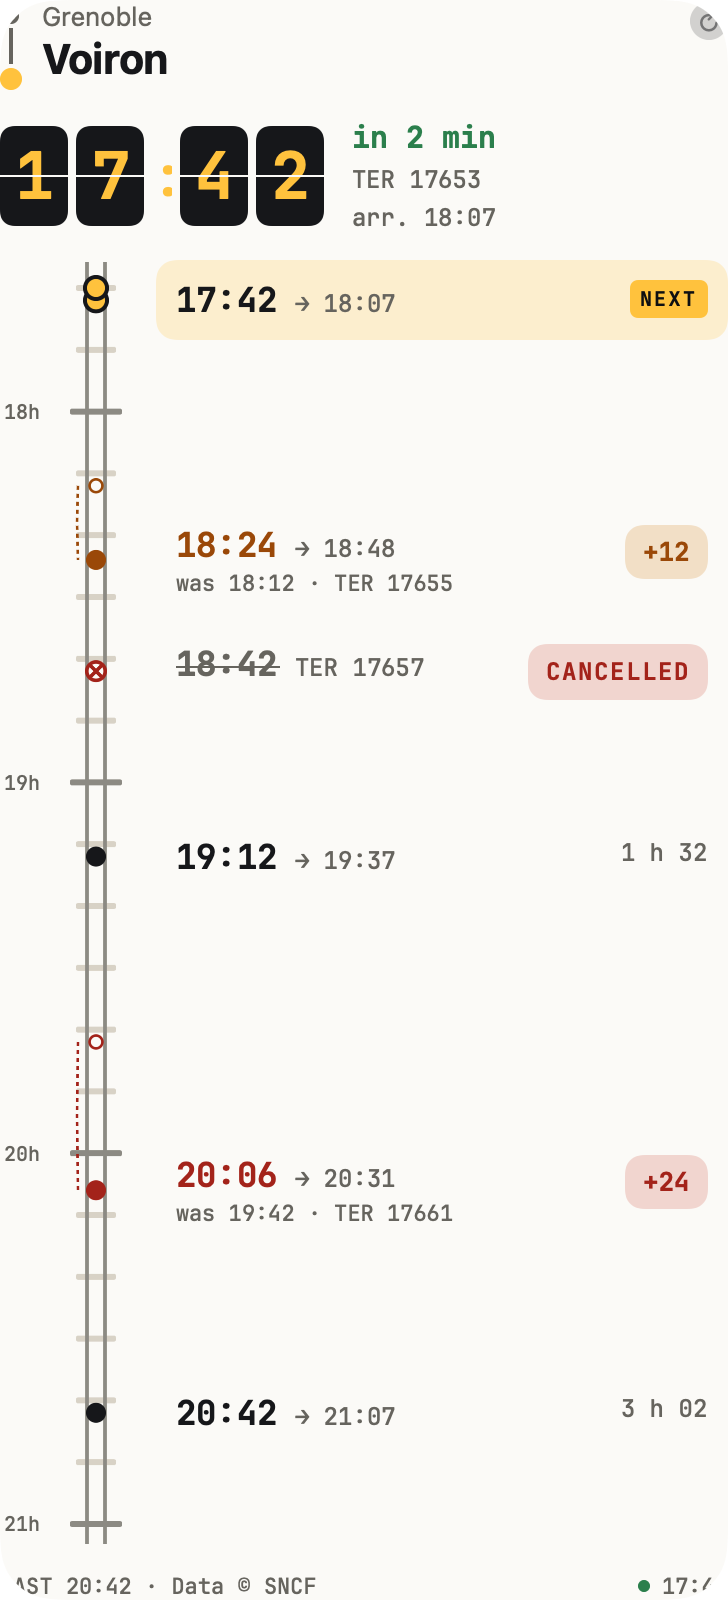
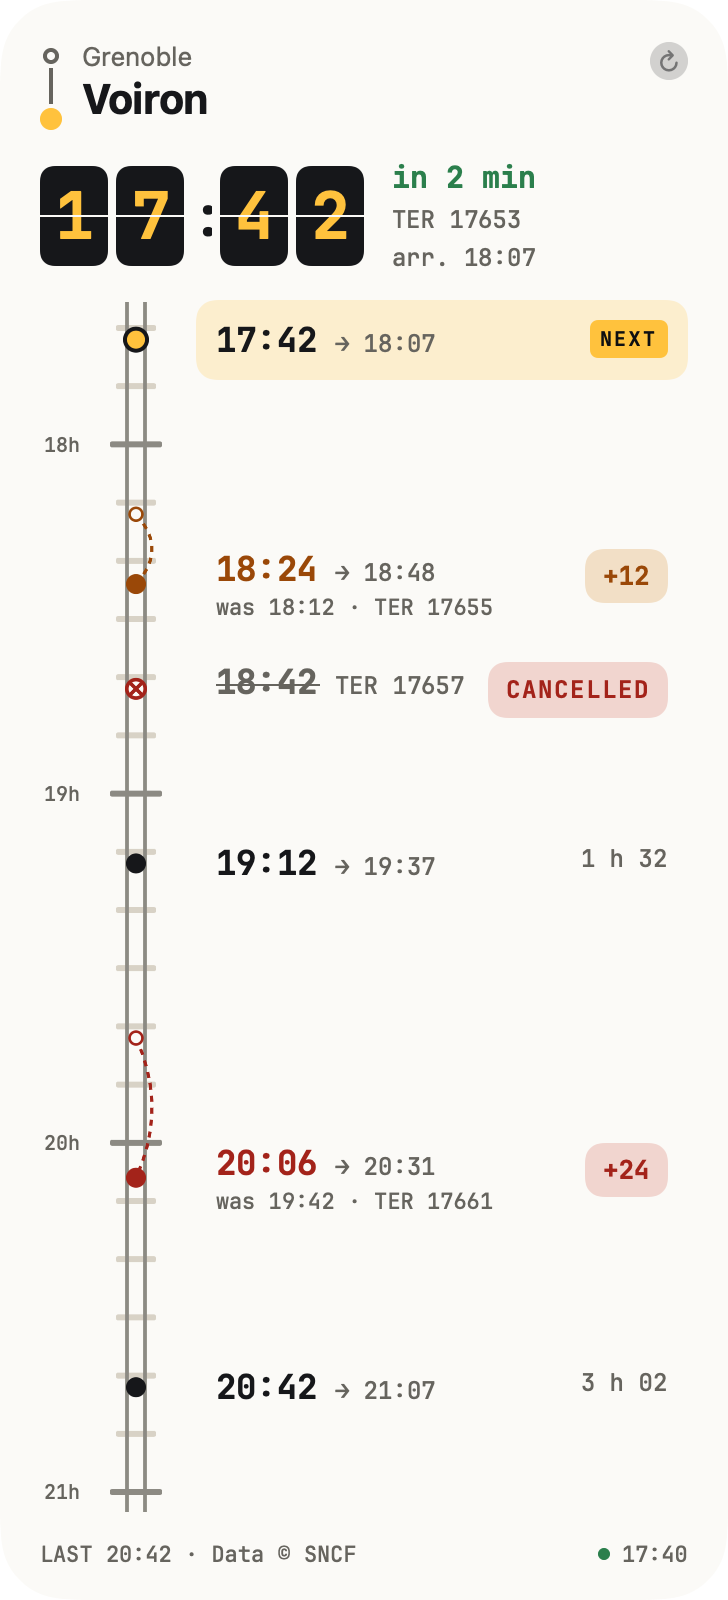
fix(widget): ink colon on the light extra-tall flap, padded renders
The screenshot harness now applies DuoWidget's 20/20/16 content margins
(WidgetKit's job on a real desktop), so the extra-tall PNGs are no longer
clipped at the edges. Changelog lines for the big-screen fixes.

diff --git a/Widget/ExtraTall/ExtraTallView.swift b/Widget/ExtraTall/ExtraTallView.swift
@@ -31,6 +31,9 @@ struct ExtraTallView: View {
         .frame(maxWidth: .infinity, maxHeight: .infinity, alignment: .topLeading)
         .containerBackground(for: .widget) { Color.surface }
         .foregroundStyle(Color.ink)
+        // The track is a fixed chart: markers 2.6 pt a minute apart with a 40 pt label centred on each,
+        // so larger type would overlap the neighbours rather than wrap.
+        .dynamicTypeSize(...DynamicTypeSize.xxLarge)
     }
 
     // MARK: Header — route and refresh
@@ -77,8 +80,10 @@ struct ExtraTallView: View {
         HStack(spacing: 14) {
             // Light flips to an ink tile with amber digits (the Phase 0 tileColor/seamColor knobs); the seam
             // is the panel colour showing through the split.
+            // The colon sits on the panel, not a tile: ink on light, where amber text on paper is out.
             FlapTime(date: train.expectedDeparture, digitColor: .amber, tileWidth: 34, tileHeight: 50,
-                     tileColor: scheme == .dark ? .raised : .ink, seamColor: .surface, cornerRadius: 7)
+                     tileColor: scheme == .dark ? .raised : .ink, seamColor: .surface, cornerRadius: 7,
+                     colonColor: scheme == .dark ? .amber : .ink)
             VStack(alignment: .leading, spacing: 3) {
                 Text("in \(countdown(to: train.expectedDeparture))")
                     .font(.mono(15, weight: .bold)).foregroundStyle(Color.soon)
@@ -104,6 +109,8 @@ struct ExtraTallView: View {
             ZStack(alignment: .topLeading) {
                 TimeTrack(trains: trains, now: entry.date, axis: .vertical,
                           minutesSpan: minutesSpan, length: height, metrics: m)
+                    // The labels beside it already read every train out; the rail's own summary would repeat them.
+                    .accessibilityHidden(true)
                 ForEach(Array(trains.enumerated()), id: \.element) { index, train in
                     let marker = markerTime(train)
                     if marker <= layout.end {
@@ -120,6 +127,8 @@ struct ExtraTallView: View {
     }
 
     private let minutesSpan = 200
+    /// Each label row is centred on its marker, so its height is fixed; the type is capped where it would
+    /// outgrow it (see `body`).
     private let labelHeight: CGFloat = 40
 
     private func along(_ date: Date, in length: CGFloat, layout: TimeTrackLayout, metrics m: TimeTrackMetrics) -> CGFloat {
@@ -165,7 +174,7 @@ struct ExtraTallView: View {
         if isNext {
             Text("NEXT")
                 .font(.mono(9.5, weight: .bold)).tracking(1.2)
-                .foregroundStyle(onAmber)
+                .foregroundStyle(Color.onAmber)
                 .padding(.horizontal, 5).padding(.vertical, 3)
                 .background(Color.amber, in: RoundedRectangle(cornerRadius: 4))
         } else {
@@ -250,10 +259,6 @@ struct ExtraTallView: View {
         f.dateFormat = "HH:mm"
         return f
     }()
-
-    // Dark ink on amber in either scheme: amber is always amber, so text on it is always near-black.
-    // (No token spans this — ground would turn to paper on light.)
-    private let onAmber = Color(red: 0.055, green: 0.059, blue: 0.067)
 }
 
 #Preview {

diff --git a/Design/Screenshots/Sources/Screenshots/main.swift b/Design/Screenshots/Sources/Screenshots/main.swift
@@ -50,10 +50,14 @@ let extraTallEntry = DeparturesEntry(
 struct ExtraTall: View {
     var body: some View {
         ExtraTallView(entry: extraTallEntry)
+            // WidgetKit insets a widget's content by its content margins; outside it nothing does, so the
+            // harness applies DuoWidget.dc.html's 20/20/16 here rather than the view, which would then be
+            // padded twice on a real desktop.
+            .padding(EdgeInsets(top: 20, leading: 20, bottom: 16, trailing: 20))
             .frame(width: 364, height: 800)
             // containerBackground draws nothing outside WidgetKit, so paint the surface here (as the preview does).
             .background(Color.surface)
-            .clipShape(RoundedRectangle(cornerRadius: 28, style: .continuous))
+            .clipShape(RoundedRectangle(cornerRadius: 34, style: .continuous))
     }
 }
 

diff --git a/CHANGELOG.md b/CHANGELOG.md
@@ -13,9 +13,17 @@ All notable changes to this project are documented here. The format follows [Kee
 - **Extra-tall widget**: the time track turned vertical with a written label beside each marker, on the `.systemExtraLargePortrait` family where iOS / macOS 27 offers it.
 - **A macOS menu-bar extra**: a window-style popover (journey switcher, next train, compact track, the next three trains, journey chips, Open / Wall-mode actions) and a bar label with the amber flap and the next time.
 - **Live data behind all of it**: concurrent journey boards and a cached service-day summary, the round-trip planner, the leave-by countdown (per-station walk time, pinned station, optional MapKit walking ETA), watching a train (a reminder before it leaves and a delay-band / cancellation alert, re-evaluated in the foreground and in iOS background app refresh — never by spending the widget reload budget), and Share ETA.
+- **Go to station** (⌘K) on the big screen searches every SNCF station, accents and case ignored, with ↑↓ / Return / Esc; a pick opens that station's departure board, which can be **pinned for Wall mode**.
+- **Saved journeys can be added, edited, reordered and deleted on the Mac and iPad**: a + in the sidebar's JOURNEYS header, Edit / Move / Delete on each journey, and a Journeys section in Settings.
+- **Settings is a pane of the main window** on the big screen, in the Tableau style, with the same sections on the Mac's Settings window (⌘,).
 
 ### Fixed
 
+- Big screen: NEAR ME shows the station nearest to you with its next departure and distance, or says why it cannot (location not allowed yet — with an **Allow location** button —, location off, no station within 20 km), falling back to the pinned station.
+- Big screen: watching a train now schedules its reminder and measures delay changes from the moment you watch it, on the Mac and iPad too; a watch is dropped once its service day is over; a token typed after launch is used straight away; boards are no longer fetched twice per refresh.
+- Big screen: the service-day summary (last train tonight, first tomorrow, the Lanes histogram) covers the whole 03:00-to-03:00 day instead of the next dozen trains; "N DISRUPTED TONIGHT" follows the live board.
+- Big screen: the menu-bar label and Wall mode keep themselves current (departed trains drop off, a cancelled train is never "next"); the time track no longer draws a second amber dot at "now", its delay arcs bow as designed, and VoiceOver reads it as one sentence.
+- Big screen: no amber text on paper in the light palette (the station hall, sidebar, inspector and menu bar stay on the dark board palette), the Lanes popover stays an ink card in both schemes, and the end-of-service board gets the widget's night treatment.
 - The iOS upload to App Store Connect was rejected for declaring no `UISupportedInterfaceOrientations`; the app is now iPhone-only and portrait-only, so it no longer claims iPad support.
 - Version and build number now come from `MARKETING_VERSION` / `CURRENT_PROJECT_VERSION` instead of a hard-coded 1.0 (1), which App Store Connect would have rejected on a second upload; declares no non-exempt encryption so TestFlight skips the export-compliance prompt.
 
